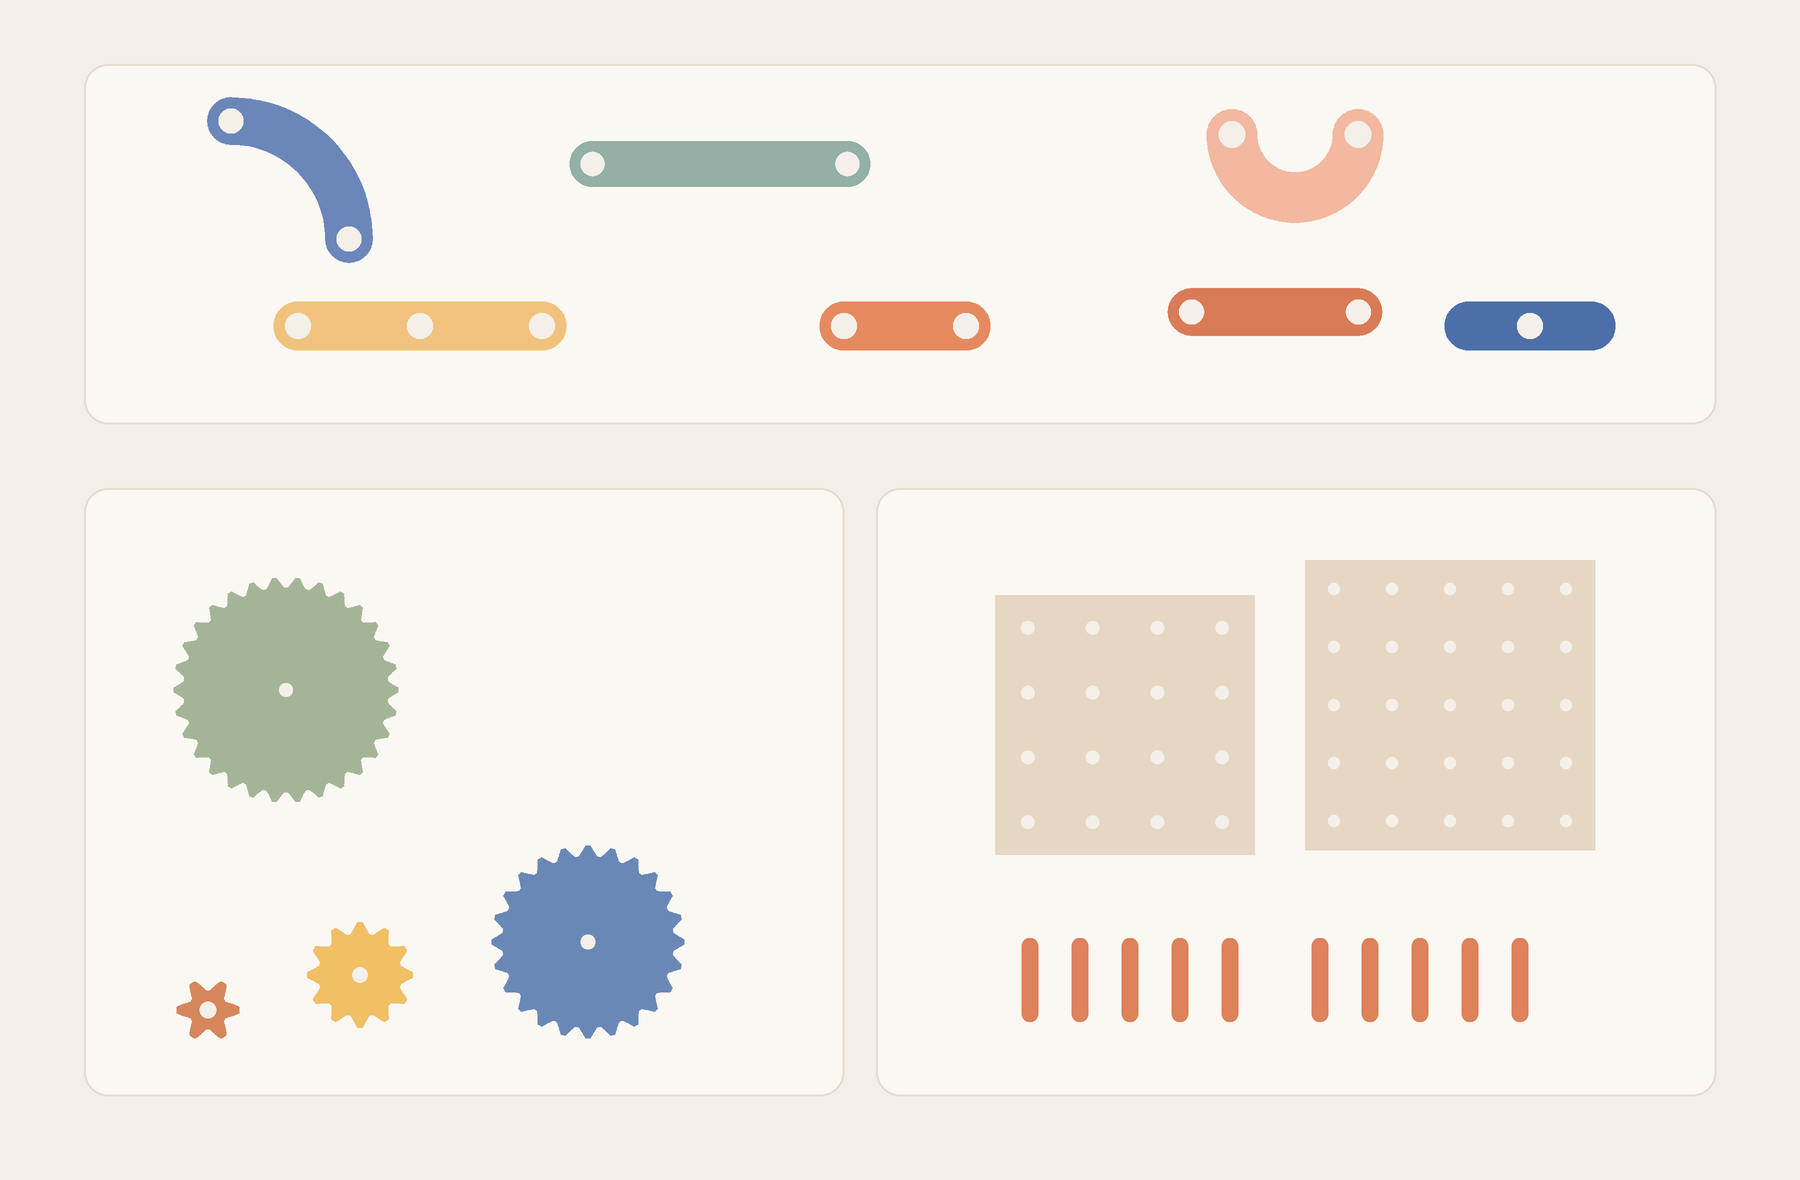
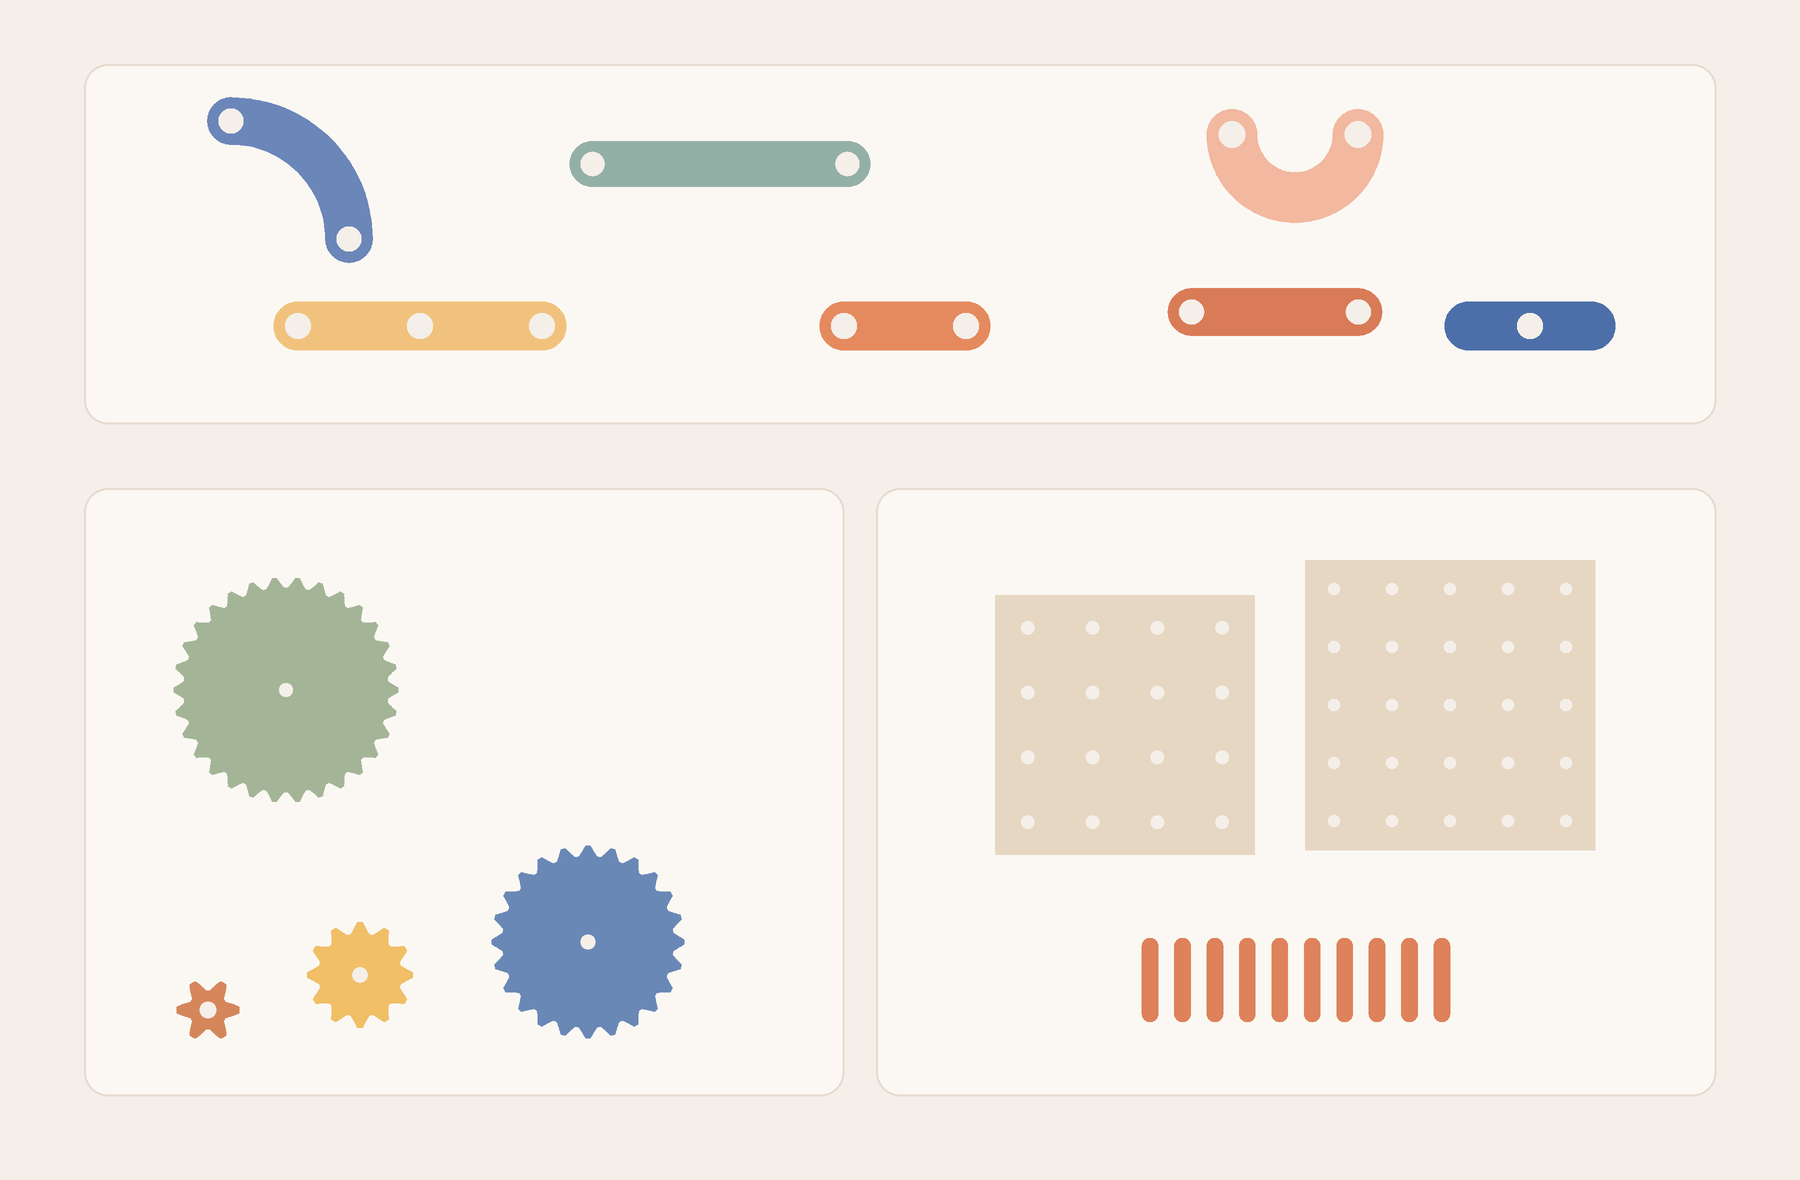
Make peg preview evenly spaced

Changed region(s): [[0.56, 0.7932, 0.8711, 0.8847]]

diff --git a/generate_repository_assets.py b/generate_repository_assets.py
@@ -258,20 +258,15 @@ def generate_overview():
     peg = peg_profile()
     peg_vertical = affinity.rotate(peg, 90.0, origin=(0.0, 0.0))
     peg_color = "#DD825A"
-    peg_layout = [
-        (1030, 980),
-        (1080, 980),
-        (1130, 980),
-        (1180, 980),
-        (1230, 980),
-        (1320, 980),
-        (1370, 980),
-        (1420, 980),
-        (1470, 980),
-        (1520, 980),
-    ]
+    peg_scale = 2.1
+    peg_gap = shapes_gen.PEG_DIAMETER_MM * peg_scale
+    peg_step = 2.0 * peg_gap
+    peg_row_center_x = 1296.0
+    peg_row_y = 980.0
+    peg_first_x = peg_row_center_x - peg_step * 4.5
+    peg_layout = [(peg_first_x + index * peg_step, peg_row_y) for index in range(10)]
     for center_x, center_y in peg_layout:
-        draw_centered(peg_vertical, center_x, center_y, 2.1, peg_color)
+        draw_centered(peg_vertical, center_x, center_y, peg_scale, peg_color)
 
     logical_image.resize((CANVAS_W, CANVAS_H), Image.Resampling.LANCZOS).save(ASSETS_DIR / "overview.png", quality=95)
 
